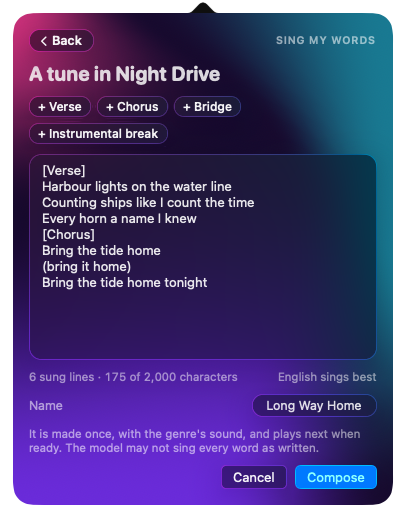
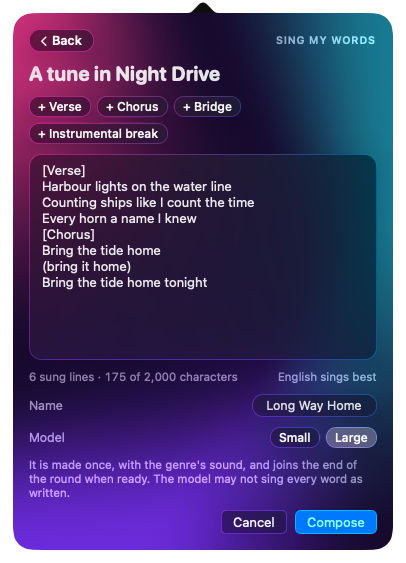
docs: the remaining screenshots with the two models
playing, playing-light and composing retaken from the demo with the
picture held still: the composer bar's model line ends in the Large
capsule. own-words retaken from the sheet itself: it now has a Model row
with Small and Large. Their alt texts say so.

diff --git a/README.md b/README.md
@@ -13,7 +13,7 @@ a signed and notarized zip, for a Mac with Apple silicon and macOS 26 or
 later. To build it yourself, see [Building](#building).
 
 <p align="center">
-  <img src="docs/screenshots/playing.png" width="380" alt="The SwiftTunes popover playing a Jazz tune: its name, tempo and key, the tune's shape as columns of dots filled up to the position, and seven round controls with Previous left of the play button, and under them a volume slider between a quiet and a loud speaker. Below, This round reads 5 of 12 over a list of the whole round, scrolled so the playing tune sits second: tune 4, already played, dimmed at the top; tune 5 highlighted, tagged NEW, with a small level meter in place of its number; tunes 6 and 7 below, kept tunes with no NEW tag, fading at the edge into the rest. Then the tune being made, and the composer bar.">
+  <img src="docs/screenshots/playing.png" width="380" alt="The SwiftTunes popover playing a Jazz tune: its name, tempo and key, the tune's shape as columns of dots filled up to the position, and seven round controls with Previous left of the play button, and under them a volume slider between a quiet and a loud speaker. Below, This round reads 5 of 12 over a list of the whole round, scrolled so the playing tune sits second: tune 4, already played, dimmed at the top; tune 5 highlighted, tagged NEW, with a small level meter in place of its number; tunes 6 and 7 below, kept tunes with no NEW tag, fading at the edge into the rest. Then the tune being made, and the composer bar, whose model line ends in a capsule naming the chosen model, Large.">
 </p>
 
 SwiftTunes is inspired by [Flowtunes](https://github.com/omacom/flowtunes)
@@ -61,14 +61,14 @@ from Omarchy.
 
 <table>
   <tr>
-    <td><img src="docs/screenshots/composing.png" width="250" alt="Nothing playing yet in Synthwave: the hero shows a wave of dots that moves while the first tune is written, the round controls with the volume slider under them, This round has nothing in it yet, and a separate Being made list shows the tune being written and one not started."></td>
+    <td><img src="docs/screenshots/composing.png" width="250" alt="Nothing playing yet in Synthwave: the hero shows a wave of dots that moves while the first tune is written, the round controls with the volume slider under them, This round has nothing in it yet, and a separate Being made list shows the tune being written and one not started. The composer bar's model line ends in a capsule naming the chosen model, Large."></td>
     <td><img src="docs/screenshots/lyrics.png" width="250" alt="A sung tune playing, with tempo, key and the word sung under its name; the wave has shrunk to a thin strip and the words show in a scrolling box headed Lyrics as written. Under the round controls sits the volume slider; below it, This round reads 1 of 5: the playing tune highlighted and tagged NEW at the top of the list, and tunes 2 to 4 under it, kept tunes with no NEW tag, fading at the edge. Under Being made, the composer bar's model line ends in a capsule naming the chosen model, Large."></td>
     <td><img src="docs/screenshots/genres.png" width="250" alt="The genre chooser: nine genres as tiles in their own colours, each with its kept count or what is playing, and a dashed tile to add a new genre."></td>
   </tr>
   <tr>
-    <td><img src="docs/screenshots/own-words.png" width="250" alt="The sheet for a tune with your own words: buttons that insert verse, chorus, bridge and instrumental break marks, a text box with the words, a count of sung lines and characters, a suggested name, and Compose."></td>
+    <td><img src="docs/screenshots/own-words.png" width="250" alt="The sheet for a tune with your own words: buttons that insert verse, chorus, bridge and instrumental break marks, a text box with the words, a count of sung lines and characters, a suggested name, a Model row with a capsule for Small and one for Large, Large lit, and Compose."></td>
     <td><img src="docs/screenshots/editor.png" width="250" alt="Editing a sung genre in grouped rows, its name selected for typing: prompt, variations, tempo range, the Singing switch with its explanation, four colour wells, and the buttons to delete, cancel or save."></td>
-    <td><img src="docs/screenshots/playing-light.png" width="250" alt="The playing state in light appearance: the same layout, volume slider under the round controls included, and the same list with only the playing tune 5 tagged NEW, on a pale wash of the genre's colours with dark text."></td>
+    <td><img src="docs/screenshots/playing-light.png" width="250" alt="The playing state in light appearance: the same layout, volume slider under the round controls included, and the same list with only the playing tune 5 tagged NEW, on a pale wash of the genre's colours with dark text; the composer bar ends its model line in the Large capsule."></td>
   </tr>
   <tr>
     <td><img src="docs/screenshots/models.png" width="250" alt="The Music models card: Small, 0.6B Q8, 0.66 GiB to download and about 4 GiB of memory, with a Download button; Large, 4B Q8, ticked as the one new tunes are made with, 4.15 GiB on this Mac and about 8 GiB of memory, with Remove; under them, a note that the models share 3.42 GiB of other files."></td>
